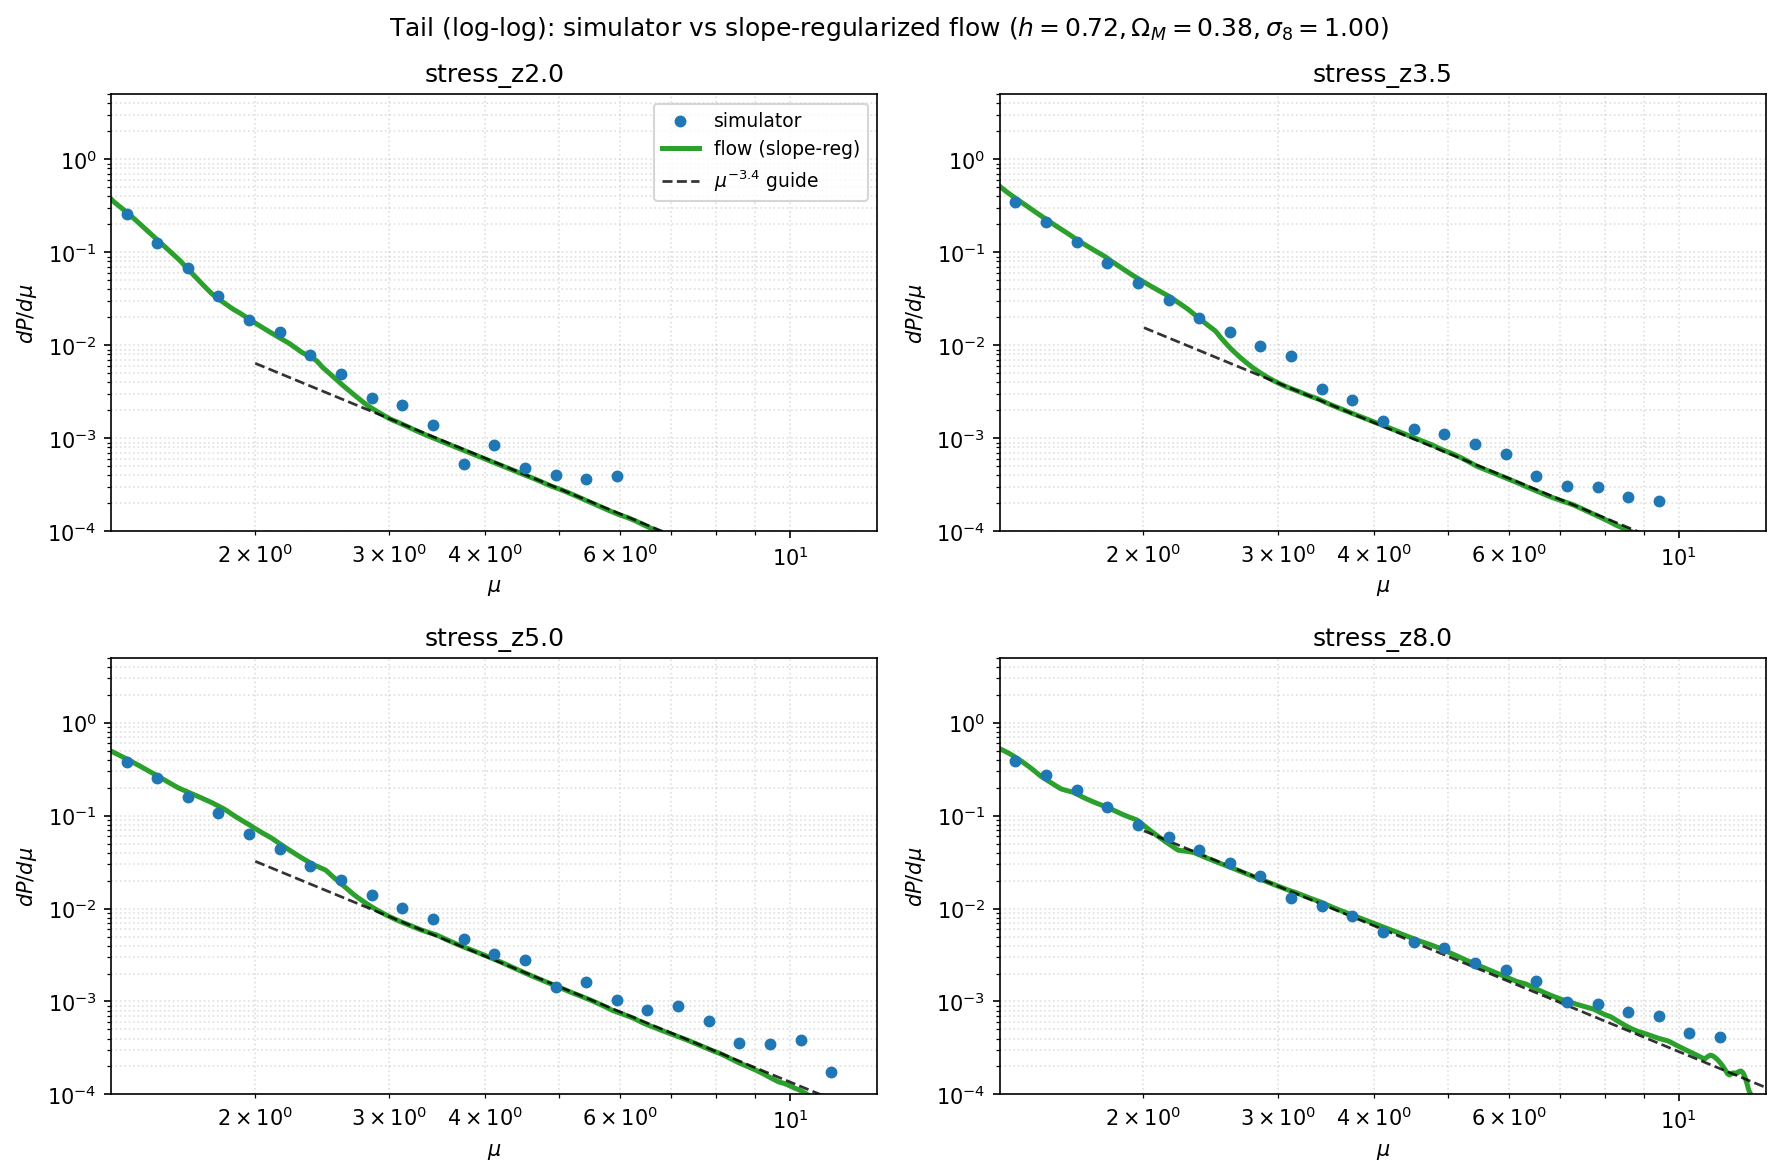
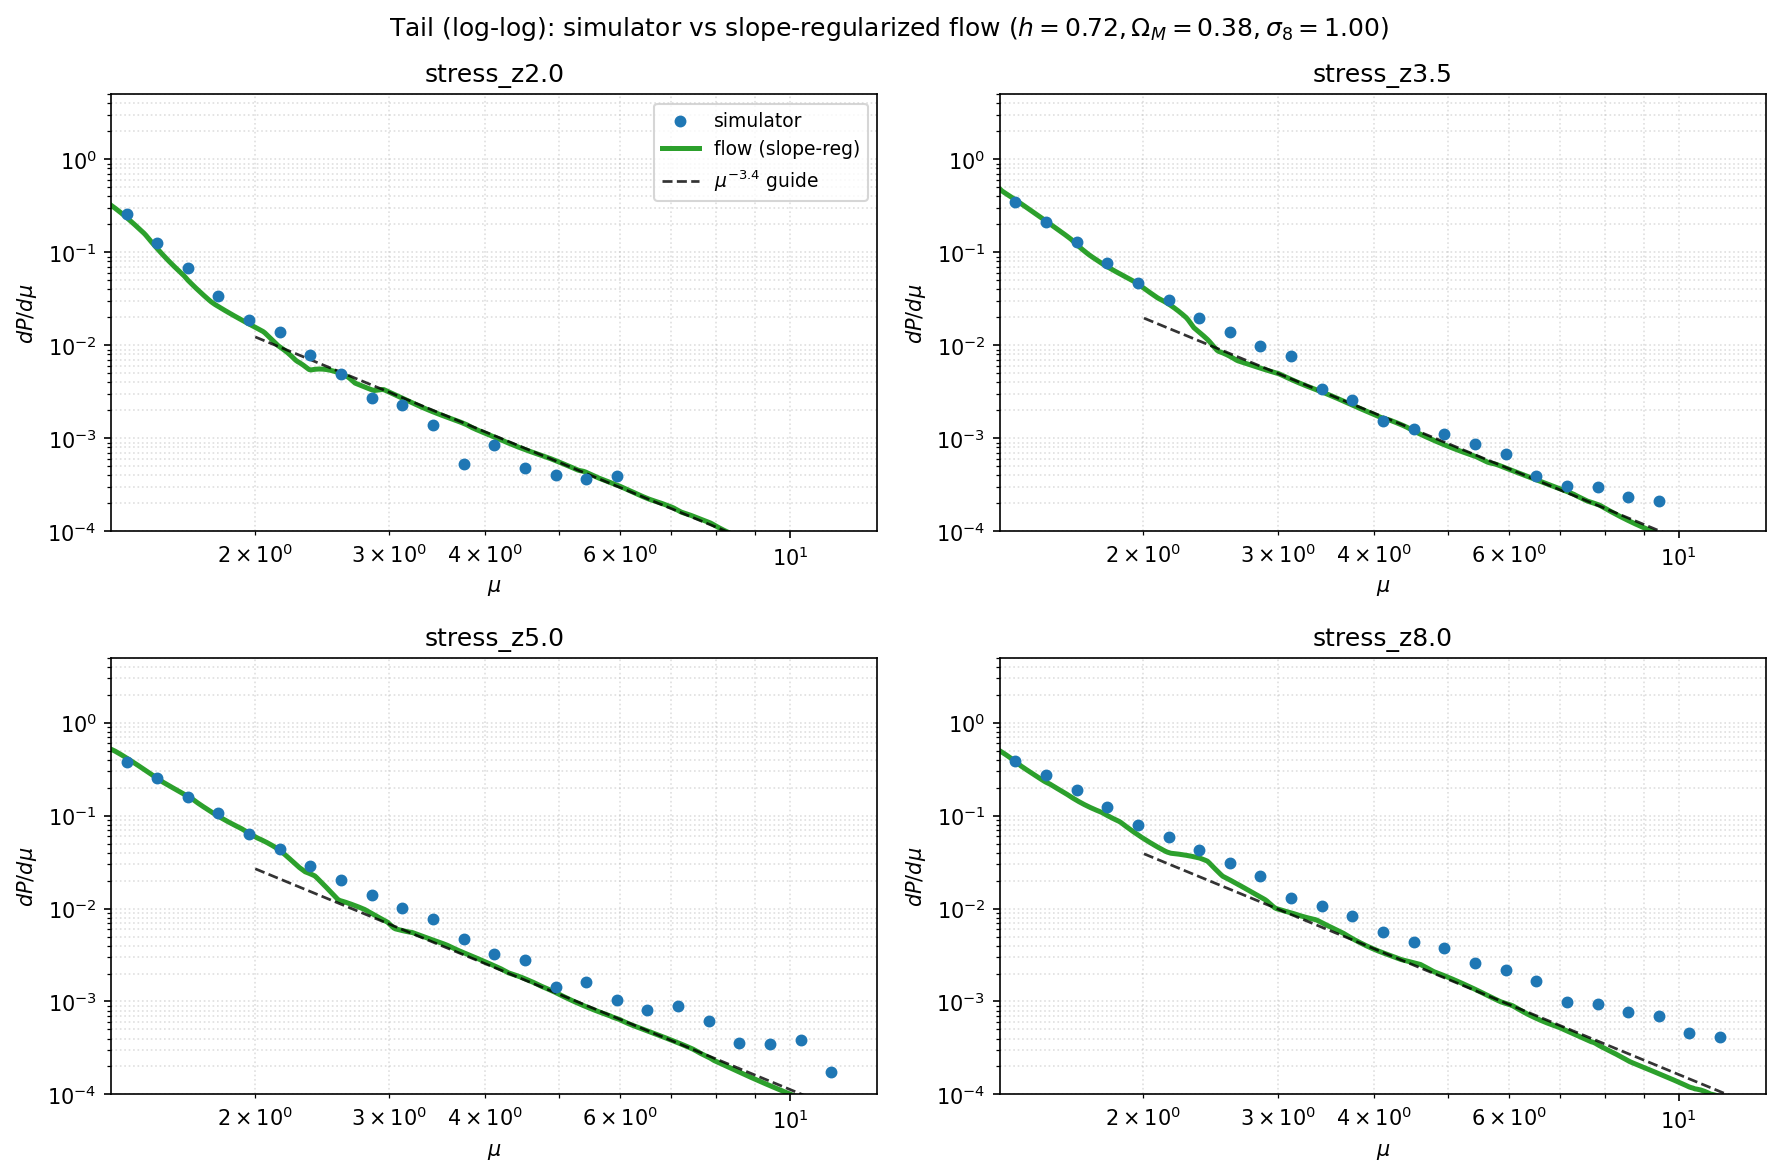
revert to df=4 (df=2.5 heavier base was worse): df=4 smooth flow remains best smooth single model

diff --git a/ml/autoresearch/train_ar.py b/ml/autoresearch/train_ar.py
@@ -39,7 +39,7 @@ CONFIG = dict(
     transforms=6,        # number of autoregressive transforms
     hidden=128,          # hypernetwork hidden width (x2 layers)
     base="studentt",     # "normal" | "studentt"
-    df=2.5,              # StudentT degrees of freedom (heavier tail = smaller df)
+    df=4.0,              # StudentT degrees of freedom (heavier tail = smaller df)
     # --- optimization ---
     lr=1e-3,
     weight_decay=1e-5,
